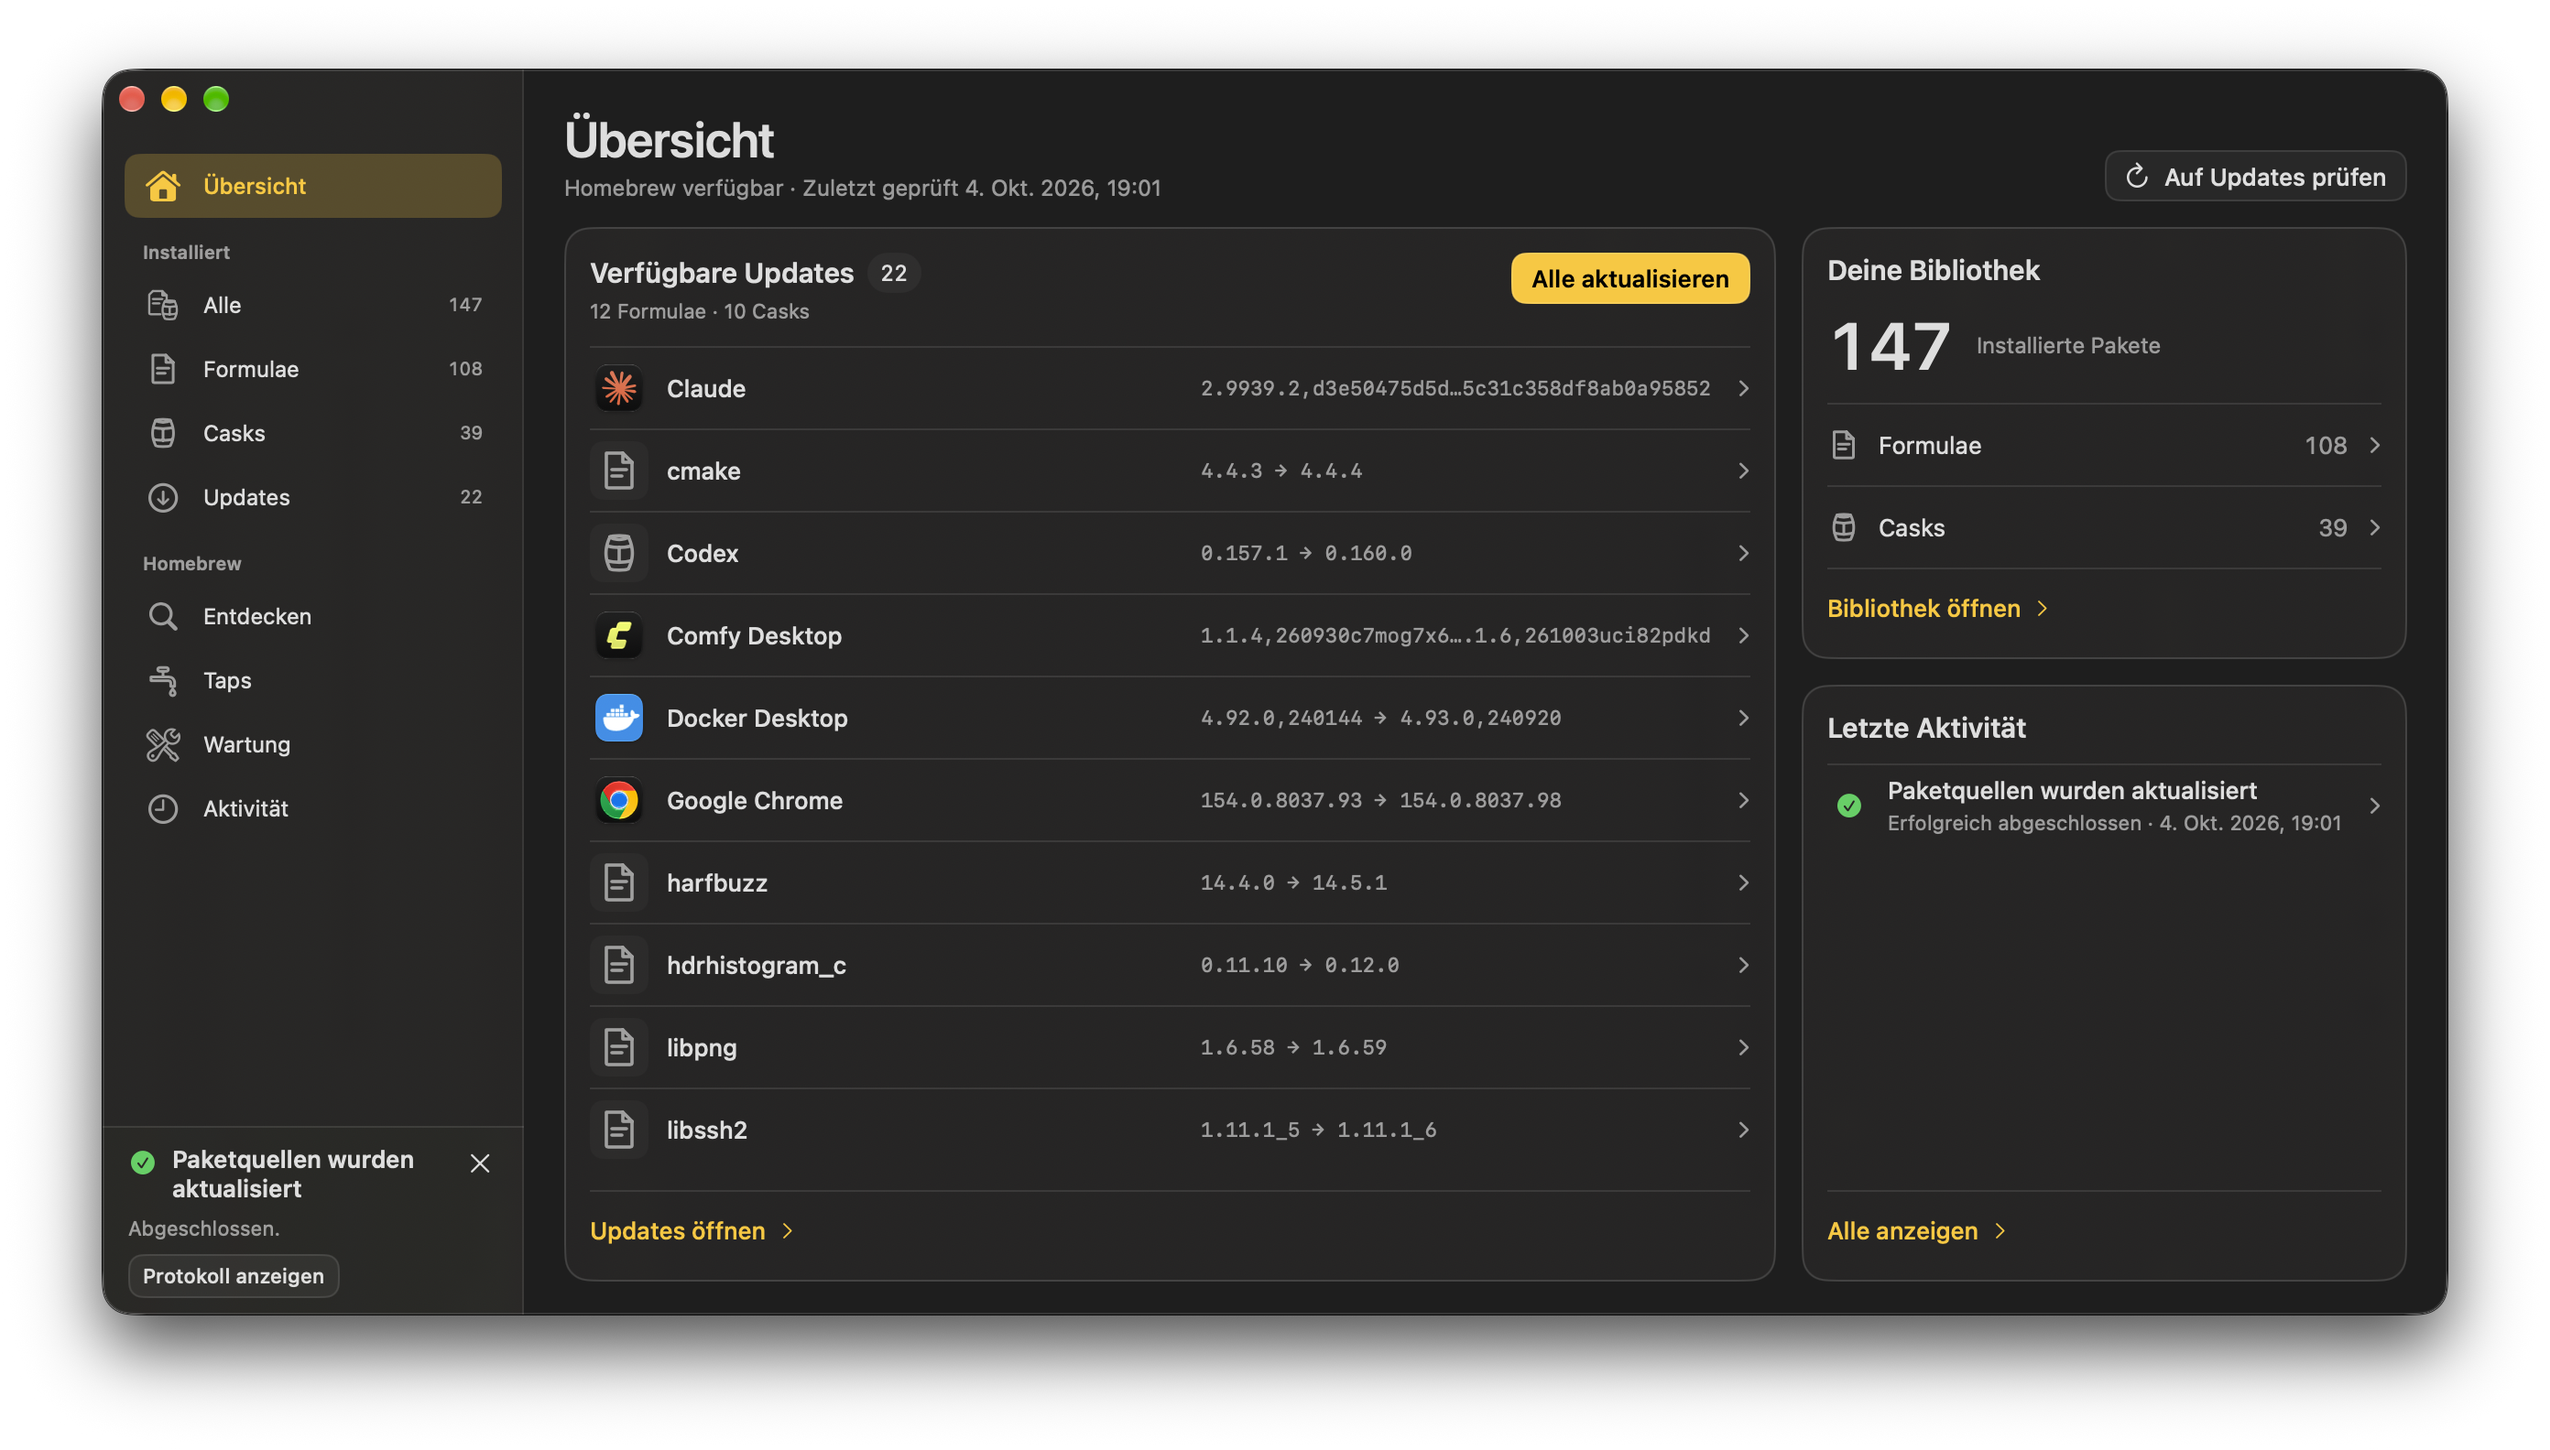
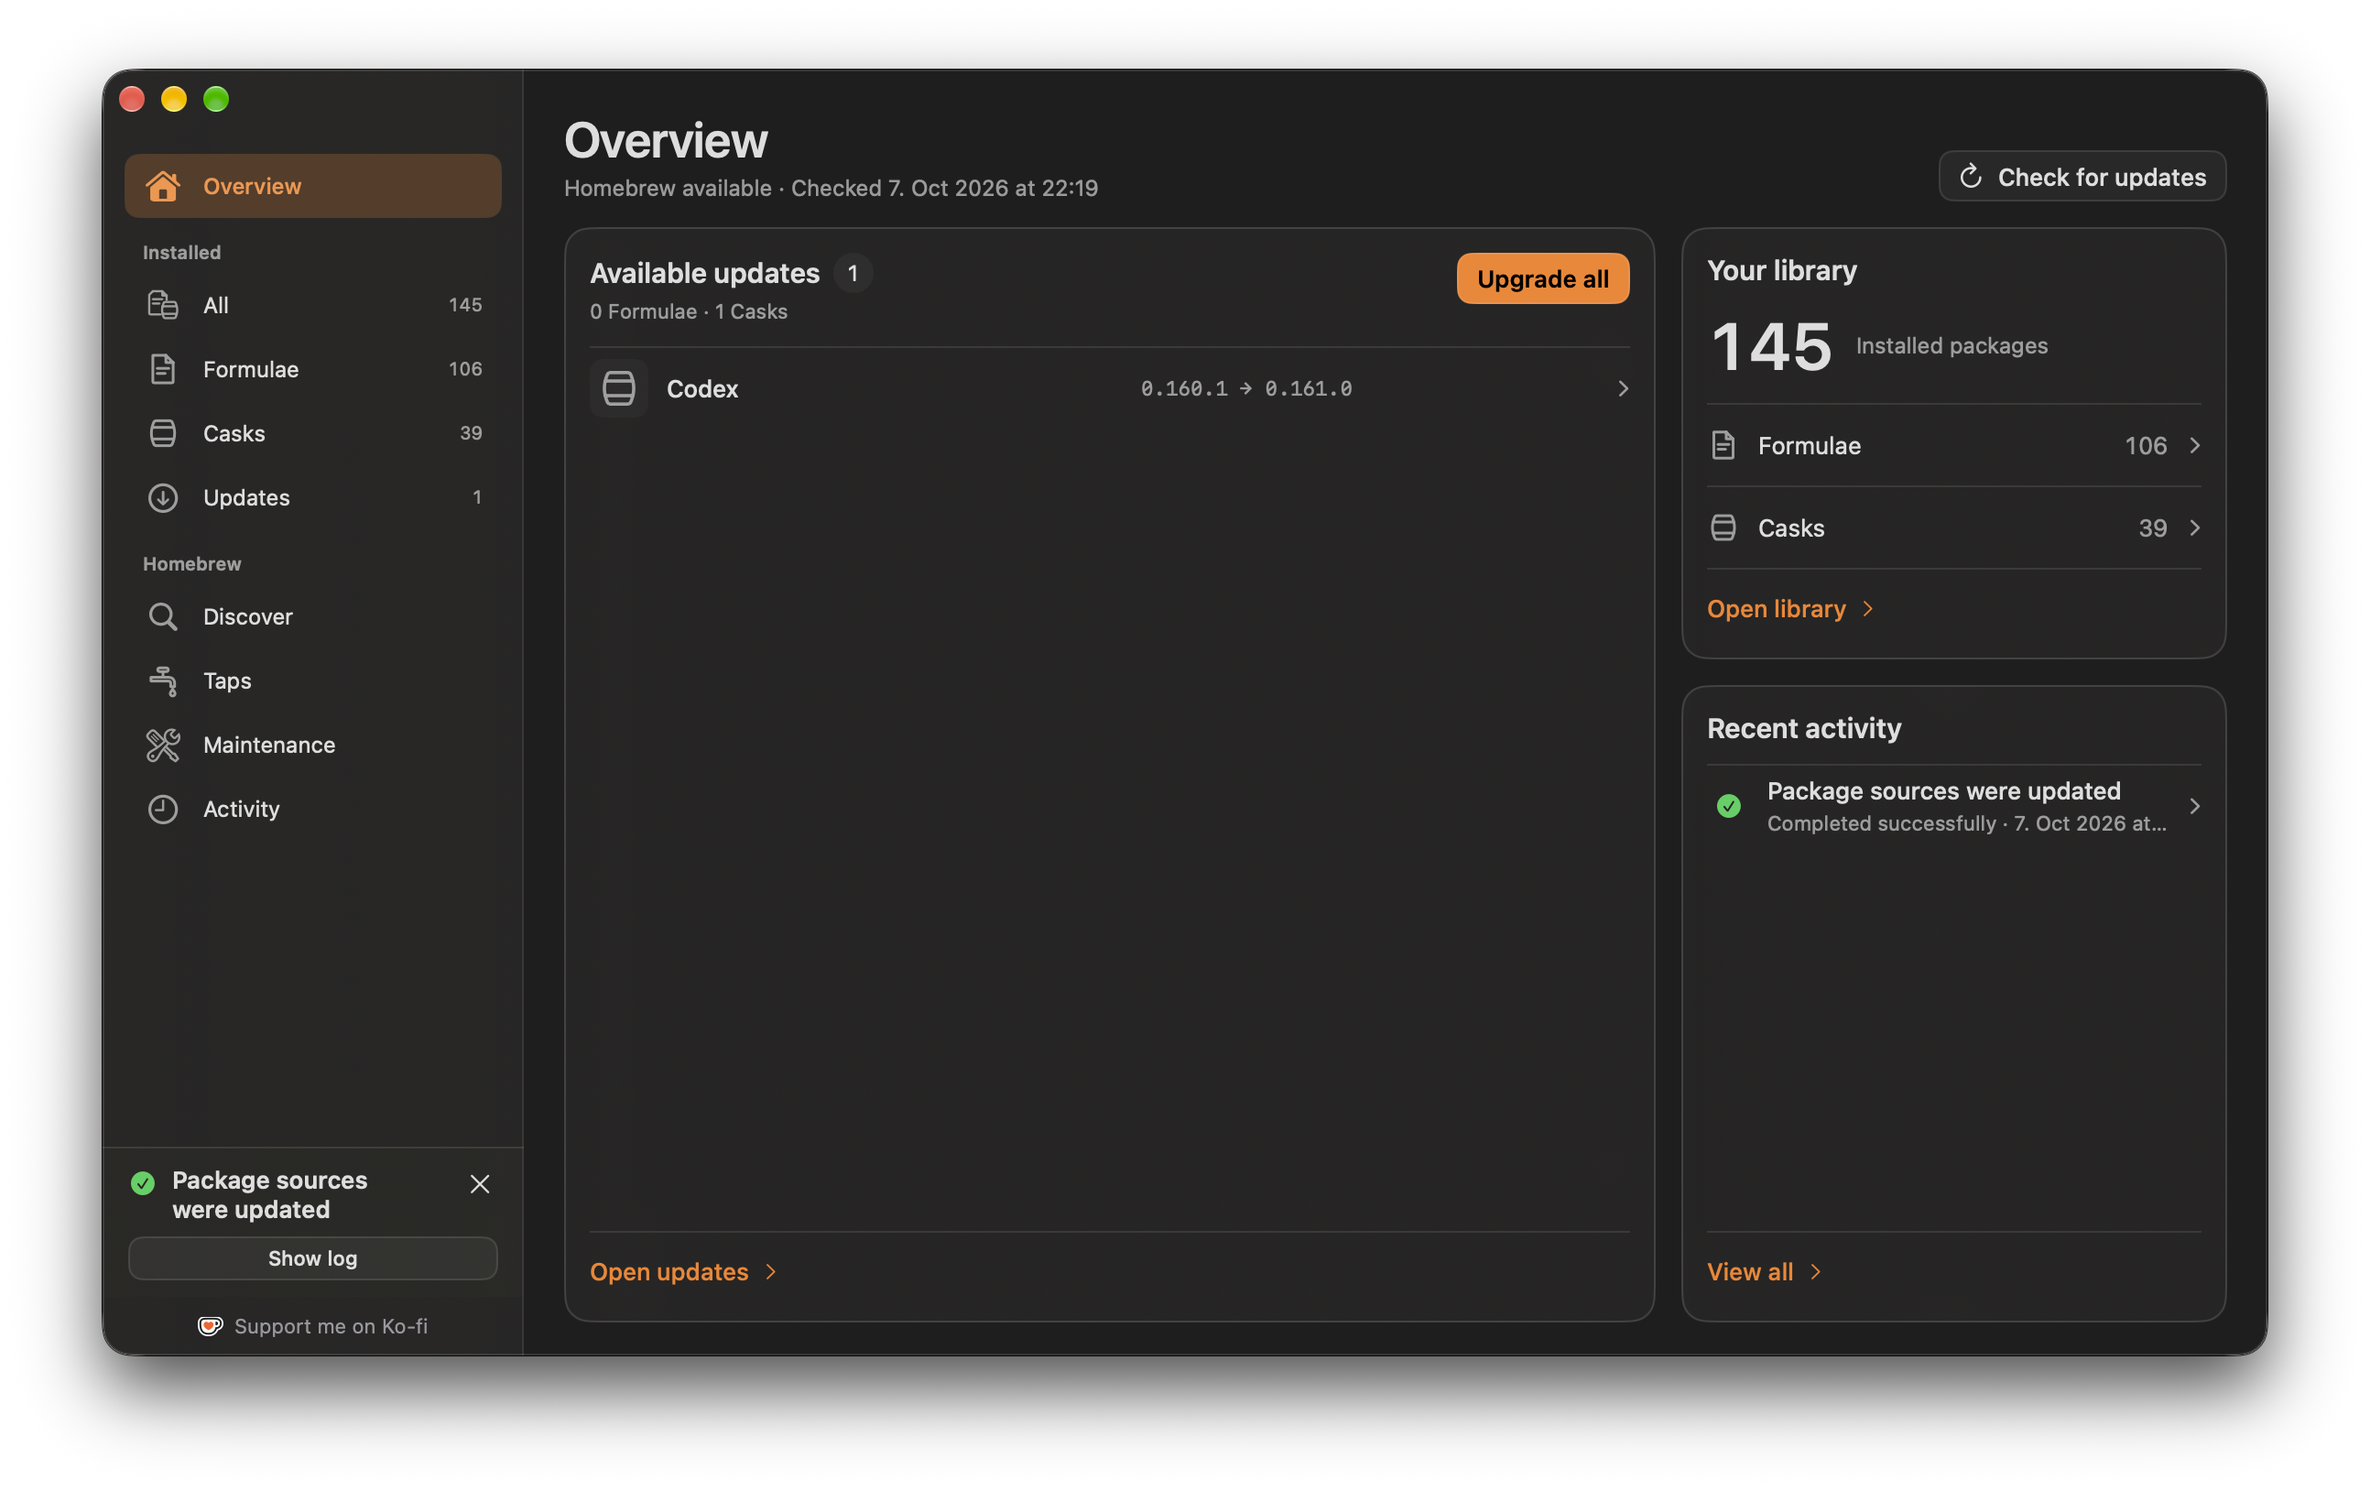
Document BrewVisual 0.6.0 features and supplied screenshots

diff --git a/README.md b/README.md
@@ -6,19 +6,25 @@ BrewVisual is available in English and German. Published downloads are signed wi
 
 ## Screenshots
 
-![BrewVisual 0.4.0 dashboard in German](assets/screenshots/dashboard.png)
+![BrewVisual 0.6.0 dashboard in English](assets/screenshots/dashboard.png)
 
-*Dashboard in BrewVisual 0.4.0 (German interface).*
+*Dashboard in BrewVisual 0.6.0 (English interface).*
 
-![BrewVisual 0.4.0 menu bar update overlay in German](assets/screenshots/menu-bar-overlay.png)
+![BrewVisual 0.6.0 menu bar icon with one available update](assets/screenshots/menu-bar-icon.png)
 
-*Menu bar update overlay in BrewVisual 0.4.0 (German interface).*
+*Menu bar icon in BrewVisual 0.6.0 with one available update.*
+
+![BrewVisual 0.6.0 menu bar update overlay in English](assets/screenshots/menu-bar-overlay.png)
+
+*Menu bar update overlay in BrewVisual 0.6.0 (English interface).*
 
 ## Features
 
 - Browse installed formulae and casks, discover packages, and manage taps.
+- Browse and search packages from an installed third-party tap.
 - See available updates, library counts, and recent command activity together on the dashboard.
 - Install, uninstall, and upgrade packages from the main window.
+- Pin and unpin installed formulae and casks to control package upgrades.
 - View available updates in the menu bar and upgrade an individual package or all available packages.
 - Inspect package versions, dependencies, caveats, and project links.
 - Follow command and download progress, and review technical output in the command log.
